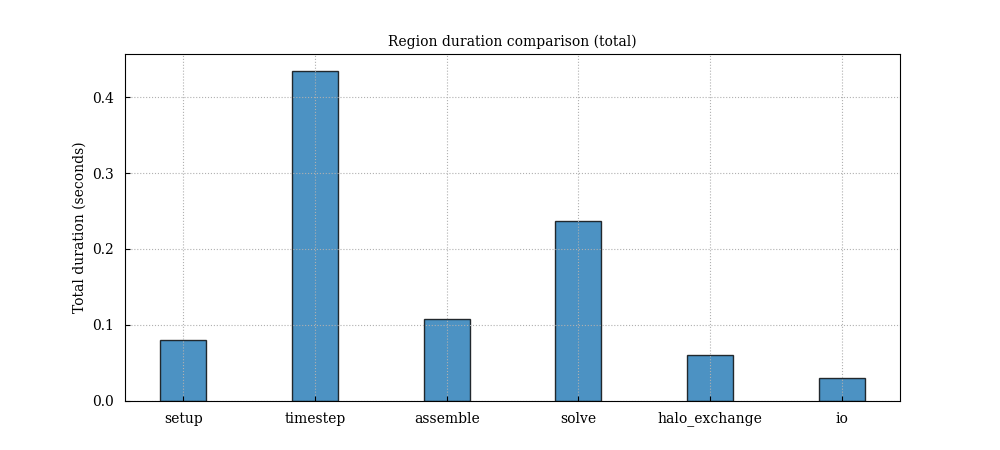
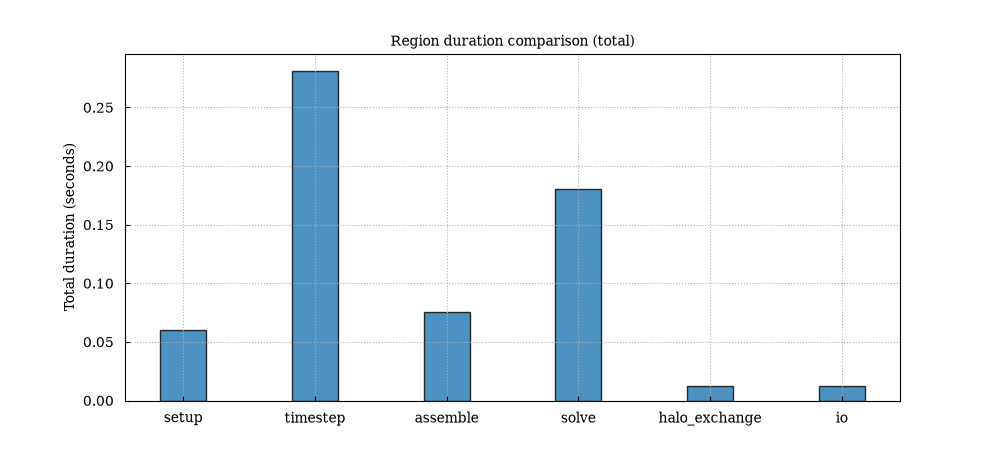
Updated cli figures

diff --git a/examples/generate_cli_docs_figures.py b/examples/generate_cli_docs_figures.py
@@ -37,8 +37,7 @@ RANK_COUNTS = (1, 2, 4)
 SINGLE_RUN_FIGURES = (
     "gantt_plot.png",
     "flame_plot.png",
-    "durations_plot_avg.png",
-    "durations_plot_total.png",
+    "durations_plot.png",
     "duration_timeseries_plot.png",
 )
 
@@ -85,6 +84,9 @@ def generate_h5_files(work_dir: str) -> list[str]:
     mpirun = shutil.which("mpirun")
     paths = []
 
+    # HDF5 file locking can fail on NFS-mounted filesystems (errno 11).
+    env = {**os.environ, "HDF5_USE_FILE_LOCKING": "FALSE"}
+
     for num_ranks in RANK_COUNTS:
         h5_path = os.path.join(work_dir, f"run_{num_ranks}.h5")
         cmd = [sys.executable, os.path.abspath(__file__), "--workload", h5_path]
@@ -92,7 +94,7 @@ def generate_h5_files(work_dir: str) -> list[str]:
             cmd = [mpirun, "-n", str(num_ranks), *cmd]
         elif num_ranks > 1:
             print(f"mpirun not found - running the {num_ranks}-rank case serially")
-        subprocess.run(cmd, check=True, cwd=work_dir)
+        subprocess.run(cmd, check=True, cwd=work_dir, env=env)
         paths.append(h5_path)
 
     return paths
@@ -140,8 +142,14 @@ def main() -> None:
         generate_h5_files(work_dir)
         figures_dir = os.path.join(work_dir, "figures")
 
-        # Single run: gantt, flame, durations, duration timeseries.
+        # Single run: gantt, flame, durations (total only), duration timeseries.
         pproc(["run_2.h5", "-o", "figures"], work_dir)
+
+        # Also produce an avg plot for the docs illustration of --metrics.
+        pproc(
+            ["run_2.h5", "-o", "figures_avg", "--plots", "durations", "--metrics", "avg"],
+            work_dir,
+        )
 
         # Several runs: the speedup plot, on the total time per region.
         pproc(
@@ -155,6 +163,20 @@ def main() -> None:
             if os.path.exists(src):
                 shutil.copy(src, os.path.join(args.output, name))
                 copied.append(name)
+
+        # Copy the total durations chart under the _total suffix for the docs
+        # page which references it as durations_plot_total.png.
+        total_src = os.path.join(figures_dir, "durations_plot.png")
+        if os.path.exists(total_src):
+            shutil.copy(total_src, os.path.join(args.output, "durations_plot_total.png"))
+            copied.append("durations_plot_total.png")
+
+        # The avg chart was generated in a separate output dir to avoid
+        # overwriting the total chart.
+        avg_src = os.path.join(work_dir, "figures_avg", "durations_plot.png")
+        if os.path.exists(avg_src):
+            shutil.copy(avg_src, os.path.join(args.output, "durations_plot_avg.png"))
+            copied.append("durations_plot_avg.png")
 
         speedup_src = os.path.join(work_dir, "figures_scaling", "speedup_plot.png")
         if os.path.exists(speedup_src):
